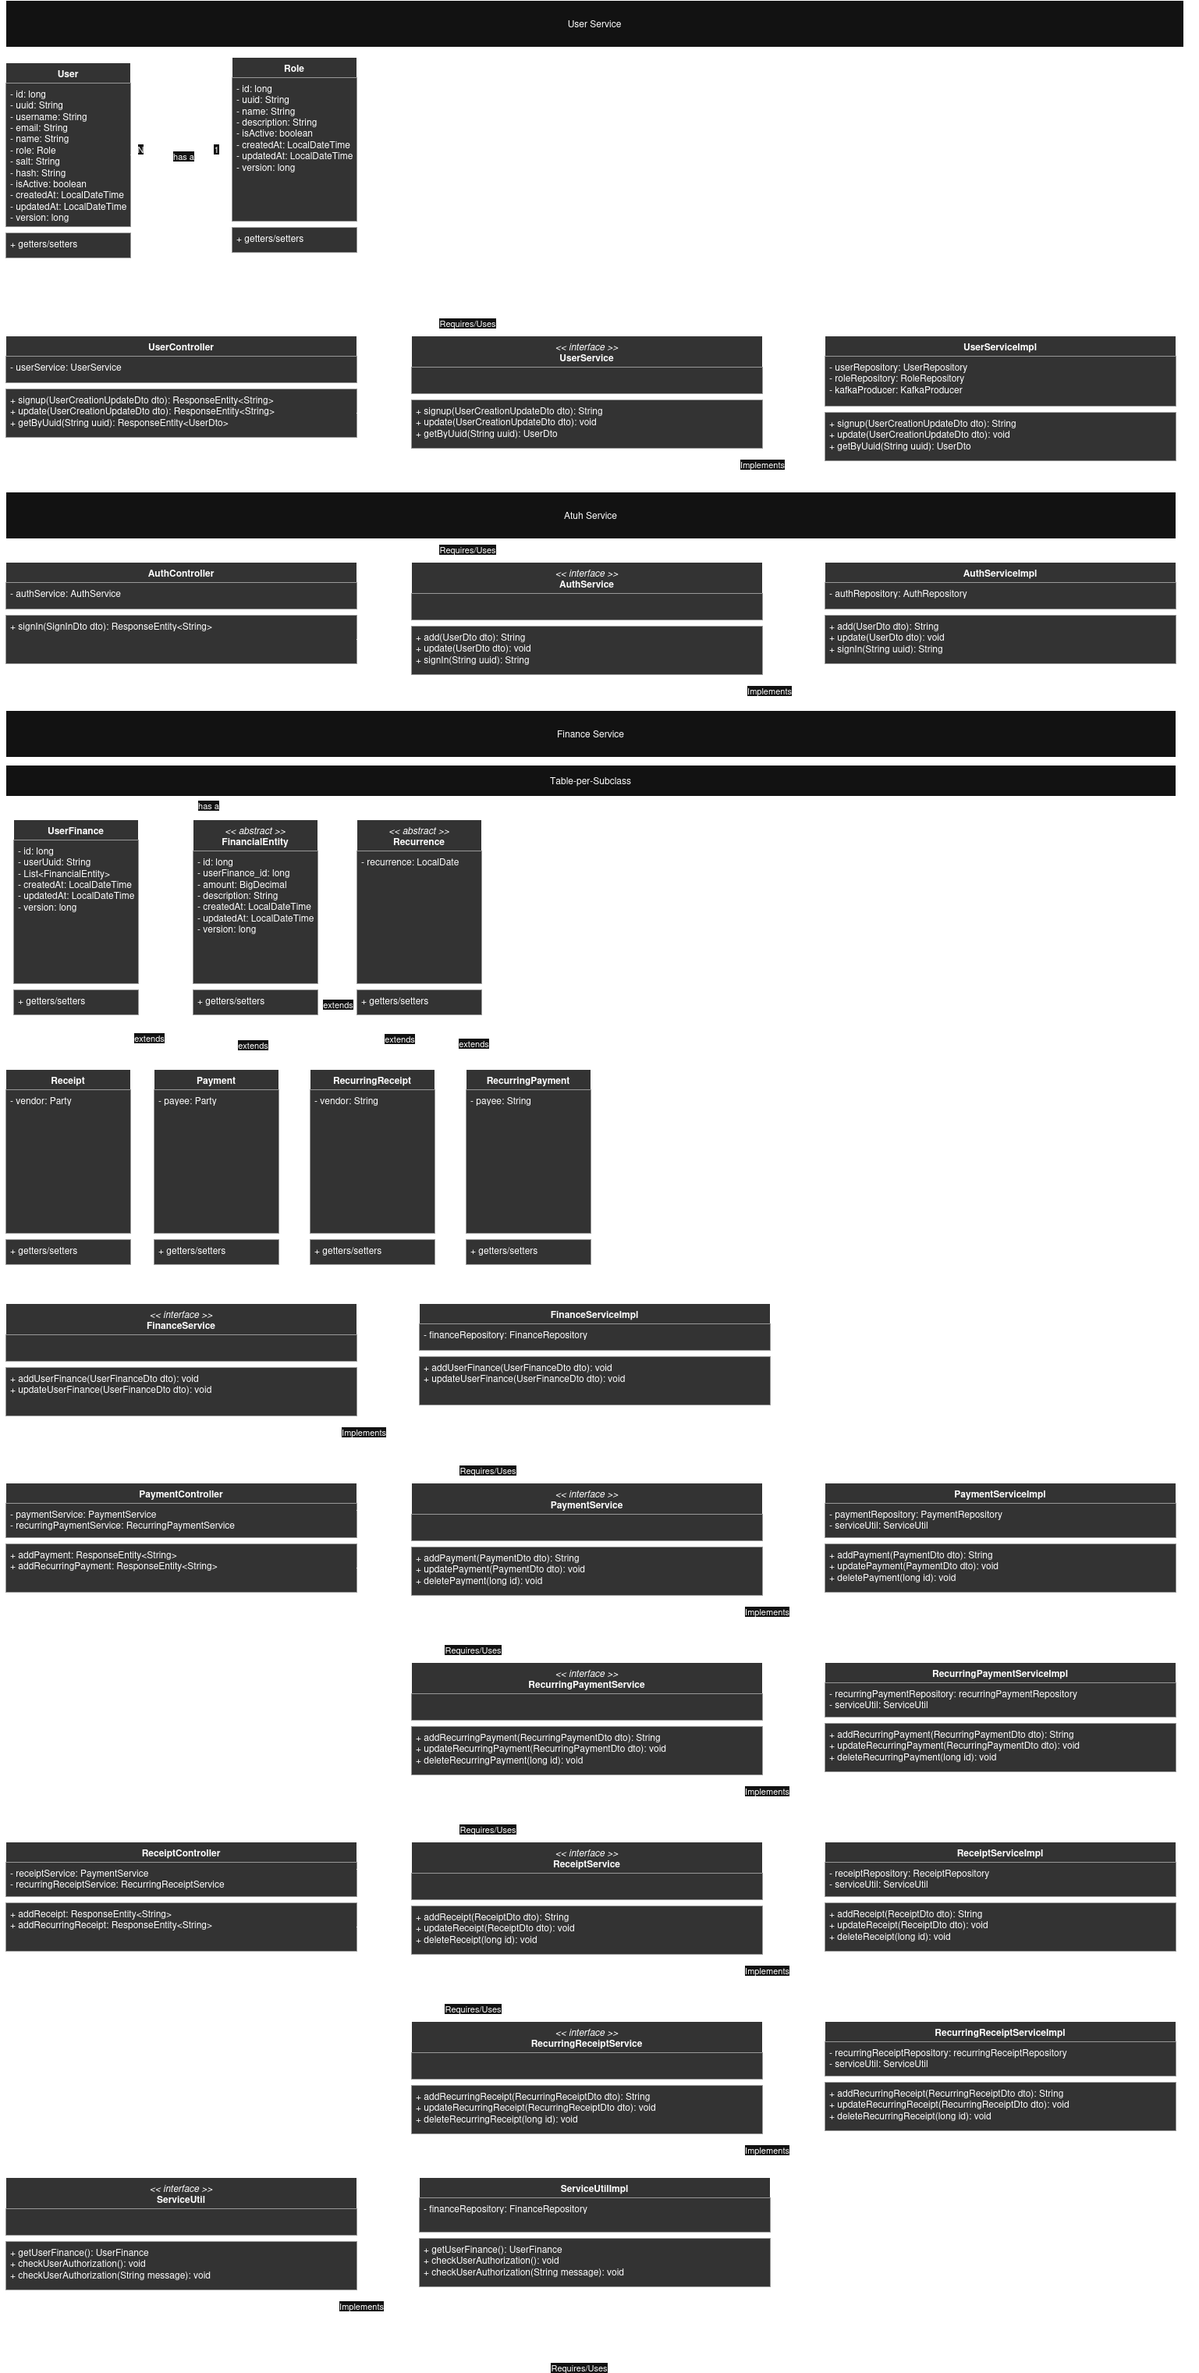
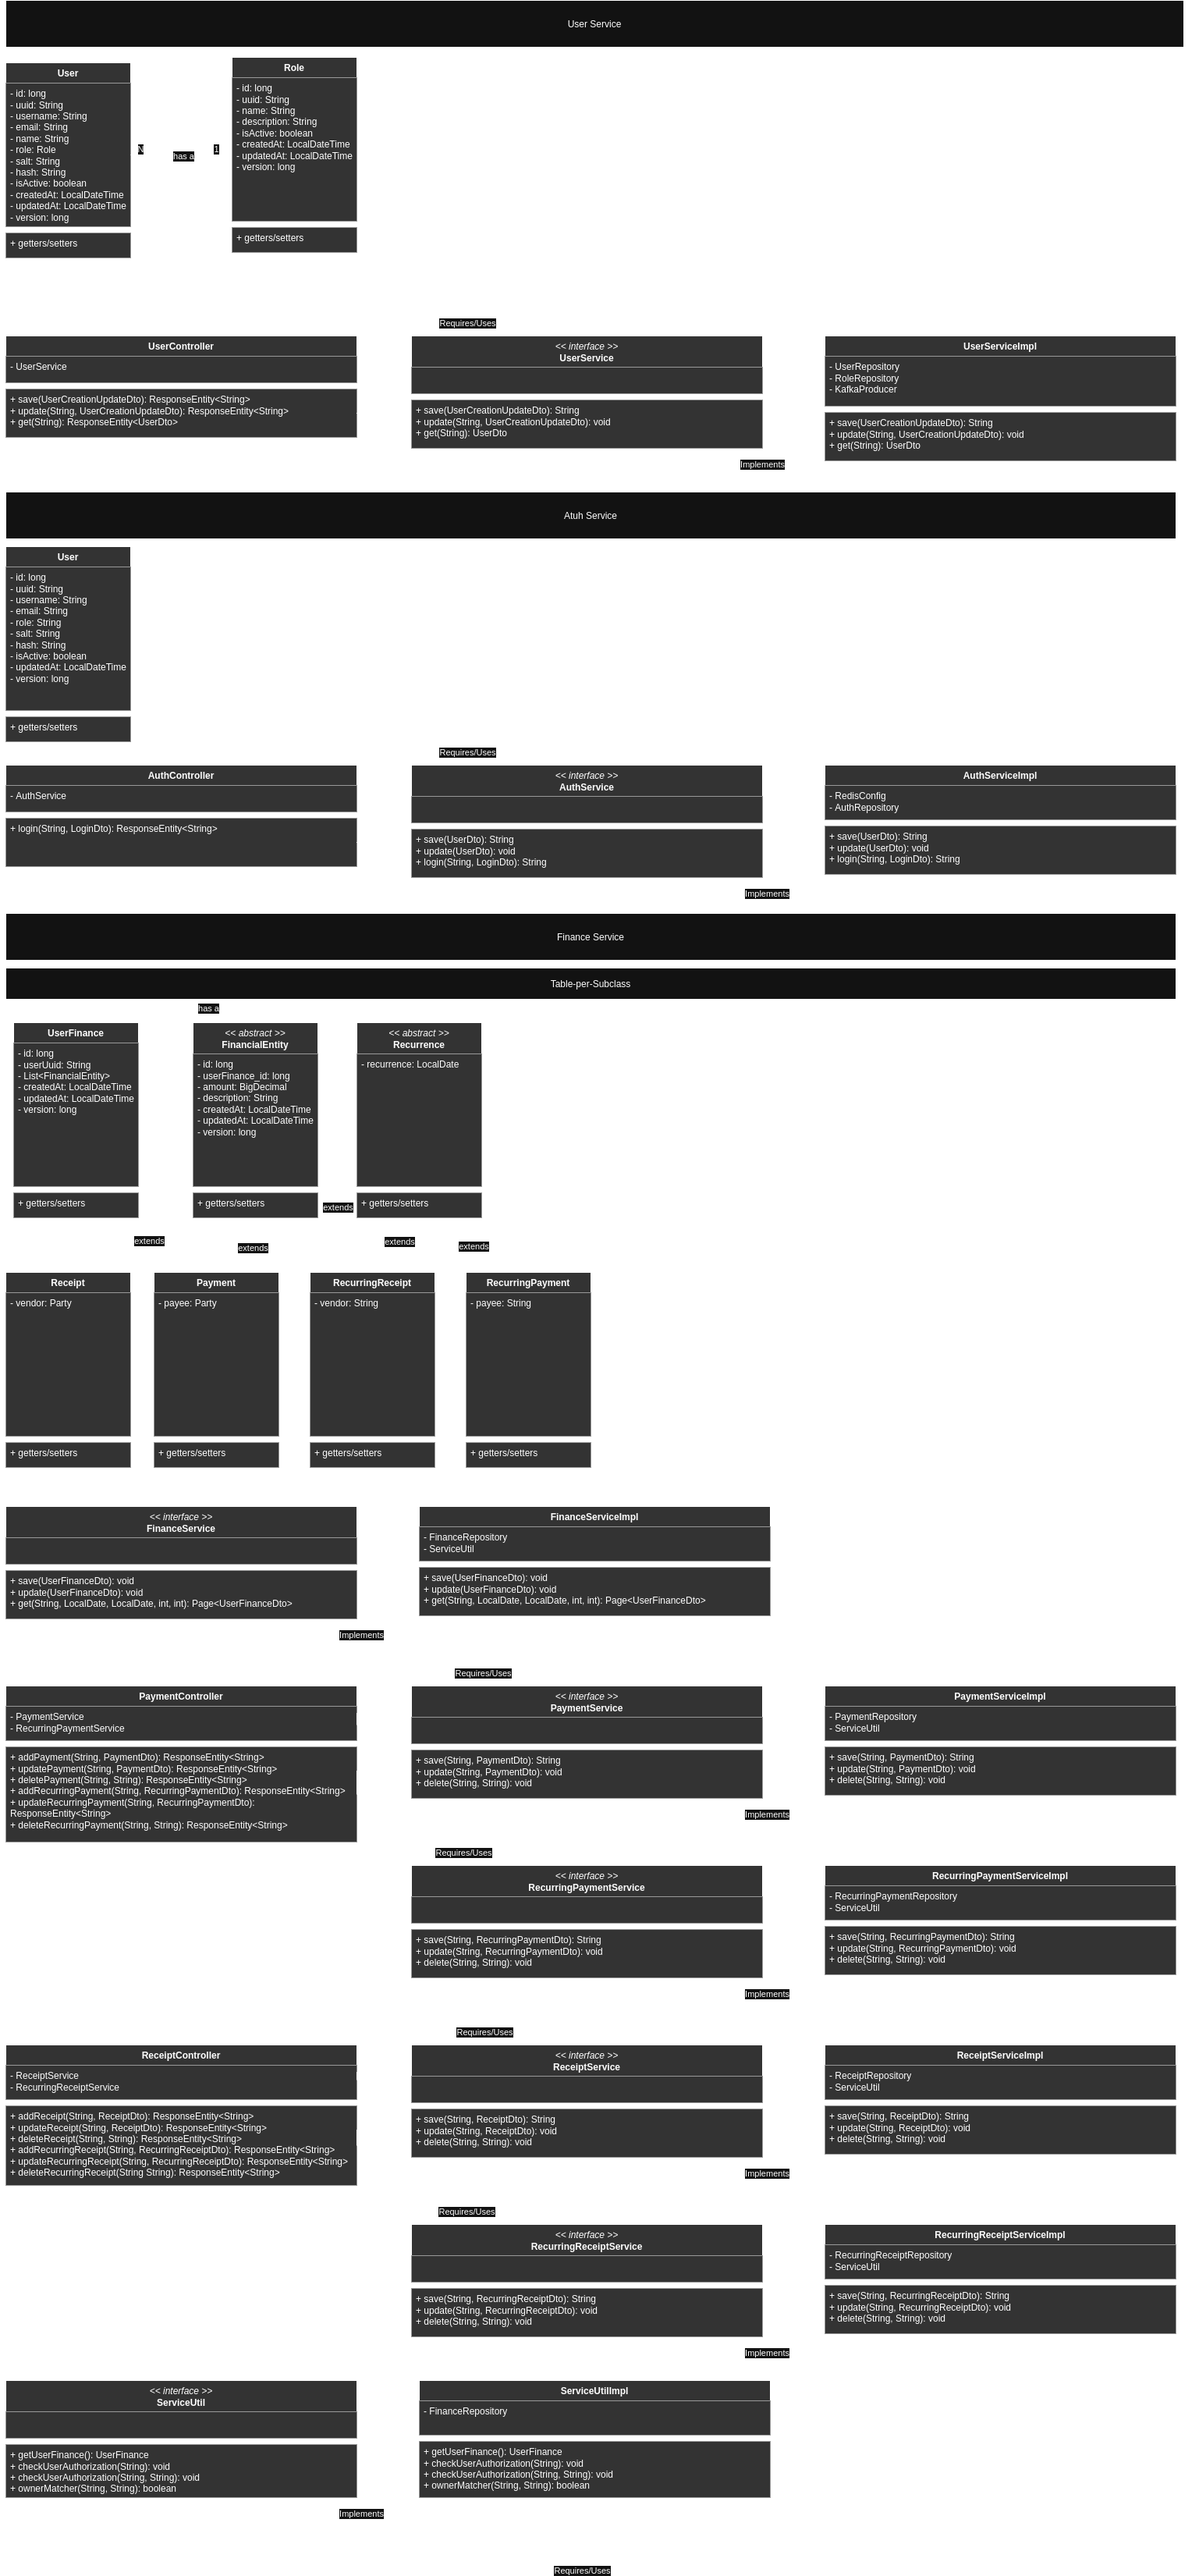
feat: reamed

diff --git a/README.md b/README.md
@@ -1,28 +1,61 @@
 **João Carlos Roveda Ostrovski**</br>
-**System name**: OV-FMA \- Ostro Veda Finance Management Application (Aplicação de Gerenciamento Financeiro)  
-**Version**: *
+**System name**: ov-fma \- Finance Management Application (Aplicação de Gerenciamento Financeiro)  
+**Version**: 71-SNAPSHOT
 
 ### Project description
-Financial management; income, expenditure, tracking; financial budget and investment registration.  
-Services are used and deployed in four modules:
+RESTful API for tracking receipts and payments providing financial management control.  
 
-1. **Gateway**: all requests need to be directed to the gateway for proper authorization; services will deny access otherwise.
-2. **User**: registration, user data querying and updates (new password, email, username, etc.),
-3. **Authentication**: user authentication;
-4. **Finance**: Finance Manager API for registering, querying and updating financial information;
-    1. Requires a registered and authenticated user (JWT).
+#### Microservices:
+1. **ov-fma-gateway**: Back end entrypoint, required for all services requests;
+2. **ov-fma-user**: User registration/update, sends User information for 'ov-fma-auth' and 'ov-fma-finance';
+3. **ov-fma-auth**: User authentication, receives user registration/update data from Kafka;
+4. **ov-fma-finance**: Register payments, receipts keeping financial information decoupled from other services;
+   1. save, update, delete.
+5. **ov-fma-config**: Configuration server, retrieves services configurations from a private repository;
+6. **kafka-service**: Decouples updates from 'ov-fma-user' to 'ov-fma-auth' and 'ov-fma-finance'.
 
 ### Settings
-VM requires `$VM_IP` environment variable for Gateway Swagger OpenAPI customizer.
-- Swagger documentation in back-end services will send requests to the gateway using the virtual machine ip, otherwise the request fail for missing `X-Secure-Token` generated at the gateway and required at the back-end services.
+#### Required Environment Variables
+##### ov-fma-gateway
+.env:
+```text
+SECRET_KEY # for JWT decode
+SPRING_PROFILES_ACTIVE=prd
+CONFIG_SERVER_URI=config-service # Config server, if deploying with Docker Swarm 'config-service' will resolve to it's URI
+CONFIG_SERVER_PORT=8084
+CONFIG_SERVER_USER
+CONFIG_SERVER_PASSWORD
+```
 
-Vagrantfile configures the set-up of the virtual machine, to use open the terminal in the project directory and use the command `vagrant up`, this will create an Ubuntu Server with 1 cpu, 512mb of ram and 5gb of disk space.<br/>
-- the vagrant-default-install.sh will be executed automatically in Vagrant VM creation, installing Docker.
-
-Docker can be used in the VM opening the terminal in the project root directory using the command `docker-compose up --build`, if desired with `-d` optional for running in the background.</br>
+##### ov-fma-user, ov-fma-finance & ov-fma-auth
+Each services require its own '.env' file, place in the root folder of each module. e.g. 'ov-fma-*/.env'
+```text
+SECRET_KEY
+SPRING_PROFILES_ACTIVE=prd
+REDIS_PASSWORD
+REDIS_PORT=6379
+CONFIG_SERVER_URI=config-service
+CONFIG_SERVER_PORT=8084
+CONFIG_SERVER_USER
+CONFIG_SERVER_PASSWORD
+POSTGRES_USER
+POSTGRES_PASSWORD
+POSTGRES_DB
+POSTGRES_HOST=user-postgres-sql
+POSTGRES_PORT=5432
+```
+##### ov-fma-config
+.env
+```text
+SPRING_PROFILES_ACTIVE=prd
+GIT_USERNAME
+GIT_PASSWORD
+REPO_URI
+SPRING_USER
+SPRING_PASSWORD
+```
+For more details see Docker Compose.
+[docker-compose.yml](docker-compose.yml)
 
 ### Diagram
 ![diagram.png](docs/diagram.png)
-
-##### Status
-_work in progress_
